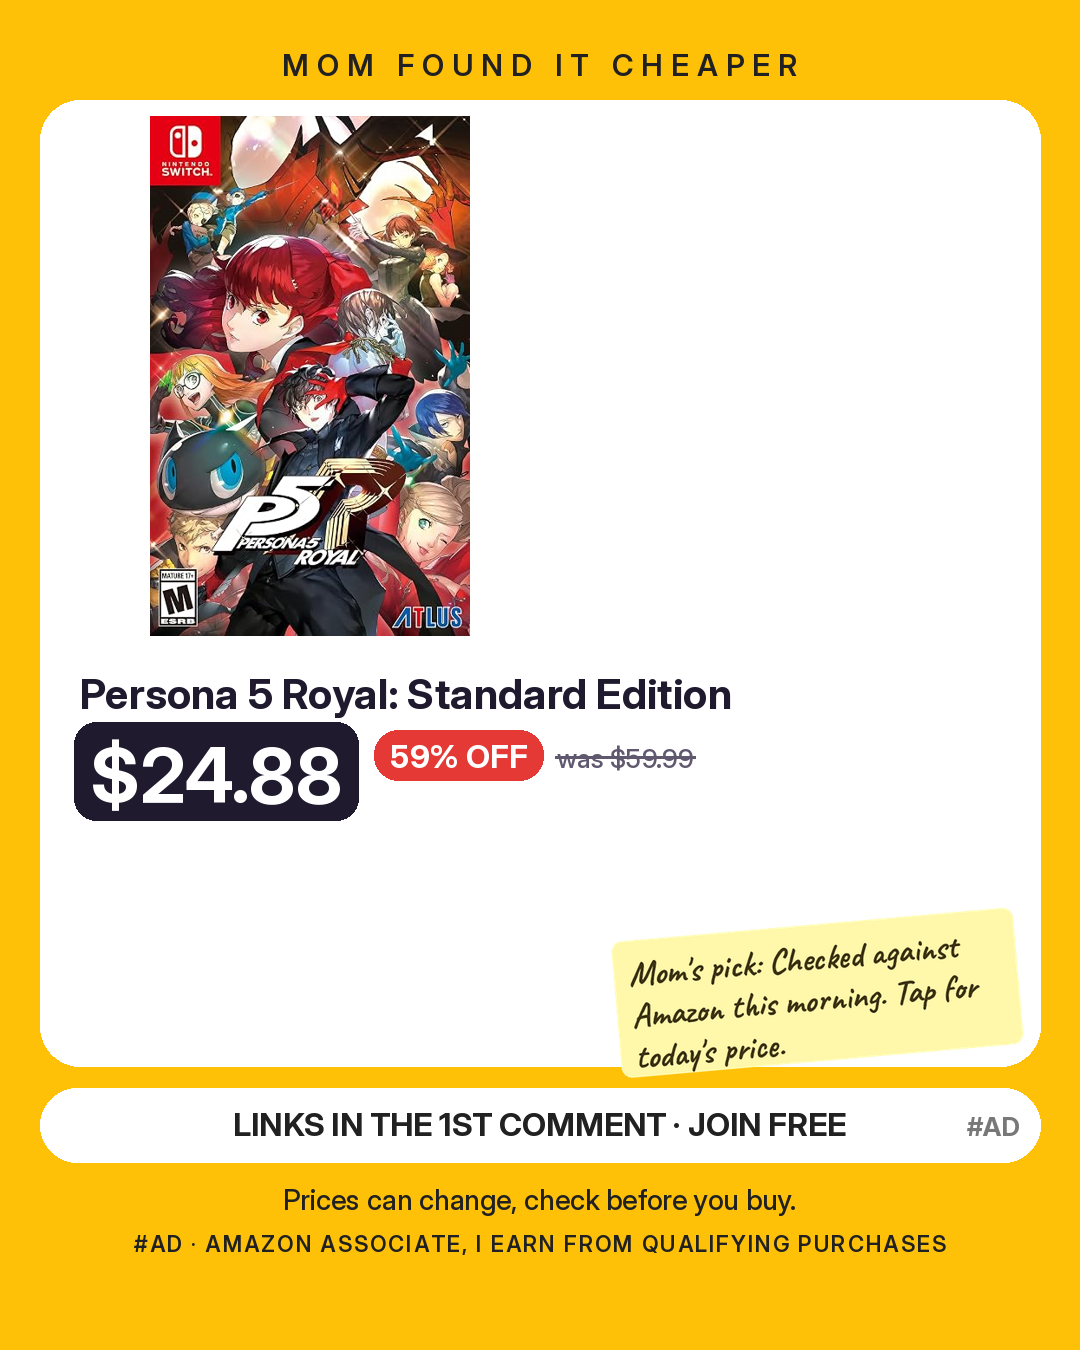
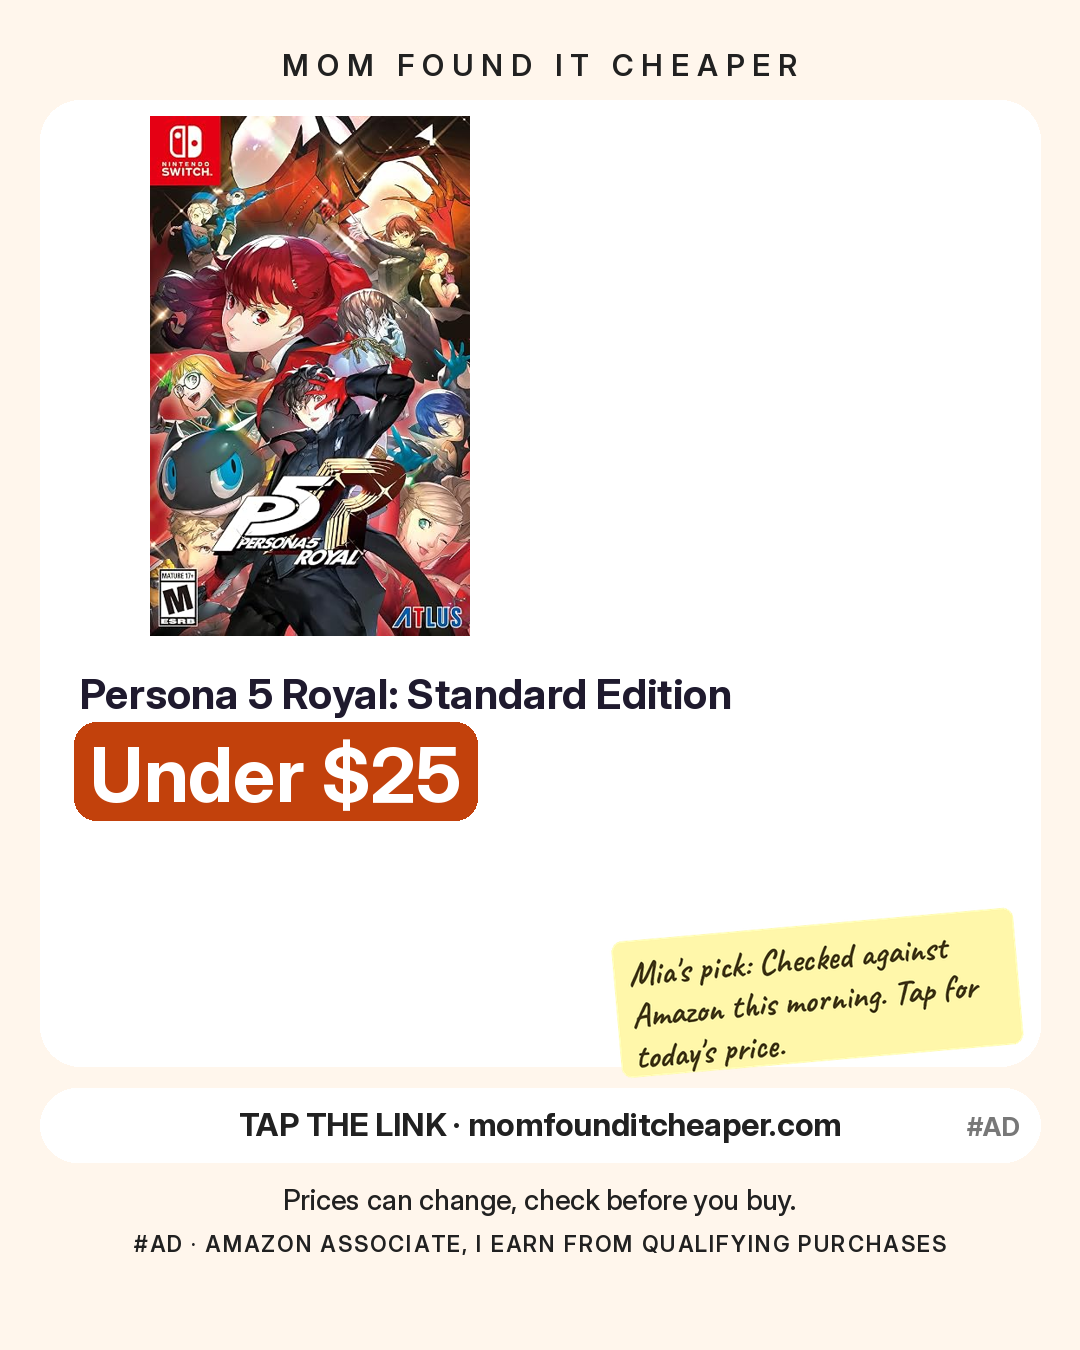
Post images compliant: tier instead of price, no was/% off, brand palette, tap-the-link footer; theme caps match tiers; Mia's pick
Claude-Session: https://claude.ai/code/session_013VSLL9D9UfzTwCfefZ99QJ

diff --git a/make_posts.py b/make_posts.py
@@ -165,7 +165,7 @@ def seasonal_groups(deals, made, top=2):
             used.update(i["id"] for i in items)
             SEEN_ASIN.update(i.get("asin") for i in items)
             top_price = max(price_value(i["price"]) or 0 for i in items)
-            band = next((b for b in (15, 25, 40, 60, 100, 200) if top_price <= b), None)
+            band = next((b for b in (10, 20, 25, 50, 100) if top_price < b), None)   # same buckets as the site tiers
             theme = ev["theme"] + (f" under ${band}" if band else "")
             out.append((ev, theme, items))
         if len(out) >= top:
@@ -246,7 +246,7 @@ def draw_tile(img, i, deal, top):
         d.text((x, y + 10), "Price drop on Amazon", font=serif(46, "Bold"), fill=GOLD)
     else:
         pf = serif(64, "Bold")
-        d.text((x, y + 4), deal["price"], font=pf, fill=GOLD)
+        d.text((x, y + 4), shown_price(deal), font=pf, fill=GOLD)
         code = clean_code(deal)
         extra = (f"CODE {code}" if code else "CLIP THE COUPON" if deal.get("coupon") else "")
         was = deal.get("was", "")
@@ -289,10 +289,11 @@ def make_image(path, theme, items):
 
 # ---------- layout v2: bold, photo-first (closer to the big deal groups) ----------
 TRUST = (21, 101, 192)   # blue = trust, used for ratings
-ORANGE = ((255, 143, 0), (255, 255, 255))
-GREEN = ((46, 160, 90), (255, 235, 59))
-TEAL = ((0, 137, 123), (255, 213, 79))
-GOLD = ((255, 193, 7), (27, 94, 32))
+import brand as _B
+ORANGE = (_B.PEACH, _B.INK)          # brand v2: pastel bases, ink text, tangerine for the number only
+GREEN = (_B.MINT, _B.INK)
+TEAL = (_B.LAVENDER, _B.INK)
+GOLD = (_B.CREAM, _B.INK)
 ROT = [ORANGE, GREEN, TEAL, GOLD]
 PALETTES = {                      # locked set: orange, green, teal, golden yellow
     "Baby & Kids": GOLD, "Toys & Games": ORANGE, "Beauty & Health": TEAL,
@@ -335,6 +336,22 @@ def pct_off(deal):
     return round((1 - a / b) * 100) if a and b and b > a else 0
 
 
+def shown_price(deal):
+    """What the image shows. Compliant mode: the tier ('Under $20') from Amazon's checked price, never the number."""
+    if AMAZON_PRICES != "hide":
+        return deal["price"]
+    now = price_value((META.get(deal.get("asin", "")) or {}).get("now") or "") or price_value(deal.get("price", ""))
+    return _B.tier(now) or "Price dropped"
+
+
+def shown_pct(deal):
+    return 0 if AMAZON_PRICES == "hide" else pct_off(deal)
+
+
+def shown_was(deal):
+    return "" if AMAZON_PRICES == "hide" else was_of(deal)
+
+
 def draw_tile_v2(img, i, deal, top, accent):
     d = ImageDraw.Draw(img)
     d.rounded_rectangle([40, top, PW - 40, top + V2_TILE_H], 30, fill=(255, 255, 255))
@@ -365,12 +382,12 @@ def draw_tile_v2(img, i, deal, top, accent):
         d.text((x, y), line, font=tf, fill=CHAR)
         y += tf.size + 6
     pf = sans(66, "Bold")
-    price = deal["price"]
+    price = shown_price(deal)
     pw_ = d.textlength(price, font=pf)
-    d.rounded_rectangle([x - 6, y + 4, x + pw_ + 26, y + 86], 22, fill=accent[0] if False else CHAR)
+    d.rounded_rectangle([x - 6, y + 4, x + pw_ + 26, y + 86], 22, fill=_B.TANGERINE)
     d.text((x + 10, y + 8), price, font=pf, fill=(255, 255, 255))
     cx = x + pw_ + 44
-    off, was = pct_off(deal), was_of(deal)
+    off, was = shown_pct(deal), shown_was(deal)
     if off >= 10:
         d.rounded_rectangle([cx, y + 16, cx + 150, y + 70], 27, fill=(229, 57, 53))
         d.text((cx + 16, y + 24), f"{off}% OFF", font=sans(30, "Bold"), fill=(255, 255, 255))
@@ -411,7 +428,7 @@ def cta_pill(img, y=1260, h=68):
     """Bold, readable footer: where the links are + why to join."""
     d = ImageDraw.Draw(img)
     d.rounded_rectangle([40, y, PW - 40, y + h], h // 2, fill=(255, 255, 255))
-    t = "LINKS IN THE 1ST COMMENT  \u00b7  JOIN FREE"
+    t = "TAP THE LINK  \u00b7  momfounditcheaper.com"
     f = fit(d, t, lambda z: sans(z, "Bold"), 32, PW - 240, max_lines=1, min_size=22)
     centered(d, y + (h - f.size) // 2 - 4, t, f, (33, 33, 33), max_w=PW - 220)
     d.text((PW - 40 - 20 - d.textlength("#AD", font=sans(26, "Bold")), y + h // 2 - 15), "#AD", font=sans(26, "Bold"), fill=(120, 120, 120))
@@ -470,7 +487,7 @@ def make_image_single(path, deal, cat="Everything else"):
     nd = ImageDraw.Draw(note)
     nd.rounded_rectangle([8, 8, 552, 192], 14, fill=(255, 247, 170))
     nf = hand(46)
-    lines = wrap(nd, "Mom's pick: " + mom_note(deal), nf, 500)[:3]
+    lines = wrap(nd, "Mia's pick: " + mom_note(deal), nf, 500)[:3]
     yy = 24
     for ln in lines:
         nd.text((28, yy), ln, font=nf, fill=(60, 50, 20))
@@ -529,11 +546,11 @@ def _price_row(img, deal, x, y, big, max_w):
     """Price pill, % off badge, was price. Returns y below the row."""
     d = ImageDraw.Draw(img)
     pf = sans(big, "Bold")
-    price = deal["price"]
+    price = shown_price(deal)
     pw_ = d.textlength(price, font=pf)
-    d.rounded_rectangle([x - 6, y, x + pw_ + 26, y + big + 22], 22, fill=CHAR)
+    d.rounded_rectangle([x - 6, y, x + pw_ + 26, y + big + 22], 22, fill=_B.TANGERINE)
     d.text((x + 10, y + 6), price, font=pf, fill=(255, 255, 255))
-    off, was = pct_off(deal), was_of(deal)
+    off, was = shown_pct(deal), shown_was(deal)
     cx = x + pw_ + 42
     bf = sans(max(22, big // 2 - 6), "Bold")
     if off >= 10:
@@ -638,7 +655,7 @@ def make_image_trio(path, theme, items, cat="Everything else"):
         d.text((x0 + 50 - d.textlength(str(k + 1), font=sans(32, "Bold")) / 2, 298), str(k + 1), font=sans(32, "Bold"), fill=(255, 255, 255))
         y = _title(d, deal, x0 + 18, 626, cw - 36, 30, 3, 22)
         y = _price_row(img, deal, x0 + 18, y + 8, 56, cw - 36)
-        off = pct_off(deal)
+        off = shown_pct(deal)
         d = ImageDraw.Draw(img)
         if off >= 10:
             d.text((x0 + 18, y), f"was {was_of(deal)}  ({off}% off)", font=sans(24, "Medium"), fill=MUTED)
@@ -649,8 +666,8 @@ def make_image_trio(path, theme, items, cat="Everything else"):
     d = ImageDraw.Draw(img)
     d.rounded_rectangle([40, 1110, PW - 40, 1250], 34, fill=accent)
     ink = CHAR if sum(accent) > 480 else (255, 255, 255)
-    centered(d, 1134, "LINKS IN THE 1ST COMMENT", sans(50, "Bold"), ink, max_w=PW - 100)
-    centered(d, 1198, "join free for daily deals  \u00b7  prices can change, check before you buy", sans(26, "Medium"), ink, max_w=PW - 100)
+    centered(d, 1134, "momfounditcheaper.com", sans(50, "Bold"), ink, max_w=PW - 100)
+    centered(d, 1198, "checked against Amazon this morning  \u00b7  prices can change, tap for today's", sans(26, "Medium"), ink, max_w=PW - 100)
     centered(d, 1290, "#AD  \u00b7  AMAZON ASSOCIATE, I EARN FROM QUALIFYING PURCHASES", sans(23, "SemiBold"), fg(img), spacing=3, max_w=PW - 60)
     img.save(path)
 
@@ -712,13 +729,13 @@ def link_for(deal):
     return f"{SITE}#d-{hashlib.sha1(deal['id'].encode()).hexdigest()[:10]}"
 
 
-BANDS = [5, 10, 15, 20, 25, 30, 40, 50, 60, 75, 100, 150, 200, 300]
+BANDS = (10, 20, 25, 50, 100)        # same buckets as the site tiers
 
 
 def fun_theme(cat, items):
     """'Games under $15' beats 'Toy finds': the price band tells people what they are getting."""
     top = max(price_value(i["price"]) or 0 for i in items)
-    band = next((b for b in BANDS if top <= b), None)
+    band = next((b for b in BANDS if top < b), None)
     base = THEMES.get(cat, "Today's top finds").replace(" finds", "").replace("Today's top", "Top")
     return f"{base} under ${band}" if band else f"{base} worth a look"
 

diff --git a/queue/QUEUE.md b/queue/QUEUE.md
@@ -3,10 +3,10 @@
 Reply with the numbers to approve, e.g. `post 1, q2; video 3; eng poll`. Nothing is posted until you say so.
 
 ## Posts that passed strict QA (13)
-### post_5 — Stocking stuffers under $15 (ok)
+### post_5 — Stocking stuffers under $10 (ok)
 ```
 CAPTION:
-✨ Stocking stuffers under $15: 72-Piece BePuzzled Disney Frozen Sven Deluxe Original 3D Crystal Puzzle, 576-Piece Beetles Short Almond Gel Nail Tips Kit and 1000-Pc RoseArt Hobby Haven Greentree Garden Center Jigsaw Puzzle
+✨ Stocking stuffers under $10: 72-Piece BePuzzled Disney Frozen Sven Deluxe Original 3D Crystal Puzzle, 576-Piece Beetles Short Almond Gel Nail Tips Kit and 1000-Pc RoseArt Hobby Haven Greentree Garden Center Jigsaw Puzzle
 Which would you grab first?
 All three, checked against Amazon this morning: https://momfounditcheaper.com/
 #ad As an Amazon Associate I earn from qualifying purchases.
@@ -24,10 +24,10 @@ https://www.amazon.com/dp/B0DXWVN78D?tag=momfounditc08-20
 As an Amazon Ass
 ```
 
-### post_7 — Toy & game under $40 (ok)
+### post_7 — Toy & game under $50 (ok)
 ```
 CAPTION:
-✨ Toy & game under $40: 577-Pc LEGO One Piece: Tony Tony Chopper Building Set, 16-Piece Fisher-Price Wooden Pretend Play Fruit Pie Toy Set and 8-Piece Playmobil Junior: Everyday Heroes Toddler Playset
+✨ Toy & game under $50: 577-Pc LEGO One Piece: Tony Tony Chopper Building Set, 16-Piece Fisher-Price Wooden Pretend Play Fruit Pie Toy Set and 8-Piece Playmobil Junior: Everyday Heroes Toddler Playset
 Tell us which one you want and we will keep an eye out for more like it.
 All three, checked against Amazon this morning: https://momfounditcheaper.com/
 #ad As an Amazon Associate I earn from qualifying purchases.
@@ -45,10 +45,10 @@ https://www.amazon.com/dp/B0CS8D3WJJ?tag=momfounditc08-20
 As an A
 ```
 
-### post_9 — Home & kitchen under $150 (ok)
+### post_9 — Home & kitchen worth a look (ok)
 ```
 CAPTION:
-✨ Home & kitchen under $150: ECR4Kids 2-in-1 Adjustable Hardwood Sit or Step Stool, Nuwave Pro Plus 2 Infrared Countertop Air Fryer Oven and Gibson Home Rothernberg 18-Piece Porcelain Dinnerware Set
+✨ Home & kitchen worth a look: ECR4Kids 2-in-1 Adjustable Hardwood Sit or Step Stool, Nuwave Pro Plus 2 Infrared Countertop Air Fryer Oven and Gibson Home Rothernberg 18-Piece Porcelain Dinnerware Set
 Which would you grab first?
 All three, checked against Amazon this morning: https://momfounditcheaper.com/
 #ad As an Amazon Associate I earn from qualifying purchases.
@@ -66,10 +66,10 @@ https://www.amazon.com/dp/B0GWRVM27R?tag=momfounditc08-20
 As an Amazon Associate I earn from qualifying purchases.
 ```
 
-### post_10 — Fashion under $60 (ok)
+### post_10 — Fashion under $100 (ok)
 ```
 CAPTION:
-✨ Fashion under $60: THE NORTH FACE Women's Borealis Backpack, Dr. Martens Women's Rometty Leather Heeled Chelsea Boots and Women’s Joggers
+✨ Fashion under $100: THE NORTH FACE Women's Borealis Backpack, Dr. Martens Women's Rometty Leather Heeled Chelsea Boots and Women’s Joggers
 Which one is going in your cart?
 All three, checked against Amazon this morning: https://momfounditcheaper.com/
 #ad As an Amazon Associate I earn from qualifying purchases.

diff --git a/POST_QA.md b/POST_QA.md
@@ -7,19 +7,19 @@
 - BLOCKER: claims 45% off without a valid list price: medicube Hyaluronic Moisturizing Cream O
 ## post_3 (Under $25 finds): BLOCKED
 - BLOCKER: title does not match Amazon page title 'Masters of the Universe 2026 Movie He-Man Power o': Masters of the Universe 2026 Movie He-M
-## post_4 (Black Friday early under $15): BLOCKED
+## post_4 (Black Friday early under $20): BLOCKED
 - BLOCKER: title does not match Amazon page title 'CS CELERSPORT 6 Pairs Ankle Athletic Running Socks': These Bombas-Inspired Socks Are Only $12
 - BLOCKER: claims 48% off without a valid list price: These Bombas-Inspired Socks Are Only $12
-## post_5 (Stocking stuffers under $15): ok
-## post_6 (Tech under $150): BLOCKED
+## post_5 (Stocking stuffers under $10): ok
+## post_6 (Tech worth a look): BLOCKED
 - BLOCKER: used/open-box seller (Sold by Amazon Resale and Fulf): TP-Link Roam 6 AX3000 Dual-Band WiFi 6 P
 - BLOCKER: title does not match Amazon page title '15.6" Digital Calendar Wall Touch Screen Family Pl': OVER $136 Off This Digital Calendar + Fr
 - BLOCKER: used/open-box seller (Sold by Amazon Resale and Fulf): Logitech G309 Lightspeed Wireless Gaming
-## post_7 (Toy & game under $40): ok
+## post_7 (Toy & game under $50): ok
 ## post_8 (Gaming & fun under $25): BLOCKED
 - BLOCKER: title does not match Amazon page title 'Mellow Gold': Beck: Mellow Gold (180-gram Vinyl LP) $2
-## post_9 (Home & kitchen under $150): ok
-## post_10 (Fashion under $60): ok
+## post_9 (Home & kitchen worth a look): ok
+## post_10 (Fashion under $100): ok
 ## post_single (Mom's pick): BLOCKED
 - BLOCKER: used/open-box seller (Sold by Amazon Resale and Fulf): monTEK Full Motion TV Wall Mount for 37"
 ## post_q1 (Quick deal: 10% OFF): ok
@@ -29,7 +29,7 @@
 ## post_q5 (Quick deal: 54% OFF): ok
 ## post_q6 (Quick deal: 40% OFF): ok
 ## post_q7 (Quick deal: 44% OFF): BLOCKED
-- BLOCKER: Amazon page data is 41h old: LEGO Ideas Polaroid Camera Just $44.99 S
+- BLOCKER: Amazon page data is 42h old: LEGO Ideas Polaroid Camera Just $44.99 S
 ## post_q8 (Quick deal: 40% OFF): ok
 ## post_q9 (Quick deal: 59% OFF): ok
 ## post_q10 (Quick deal: 29% OFF): ok
